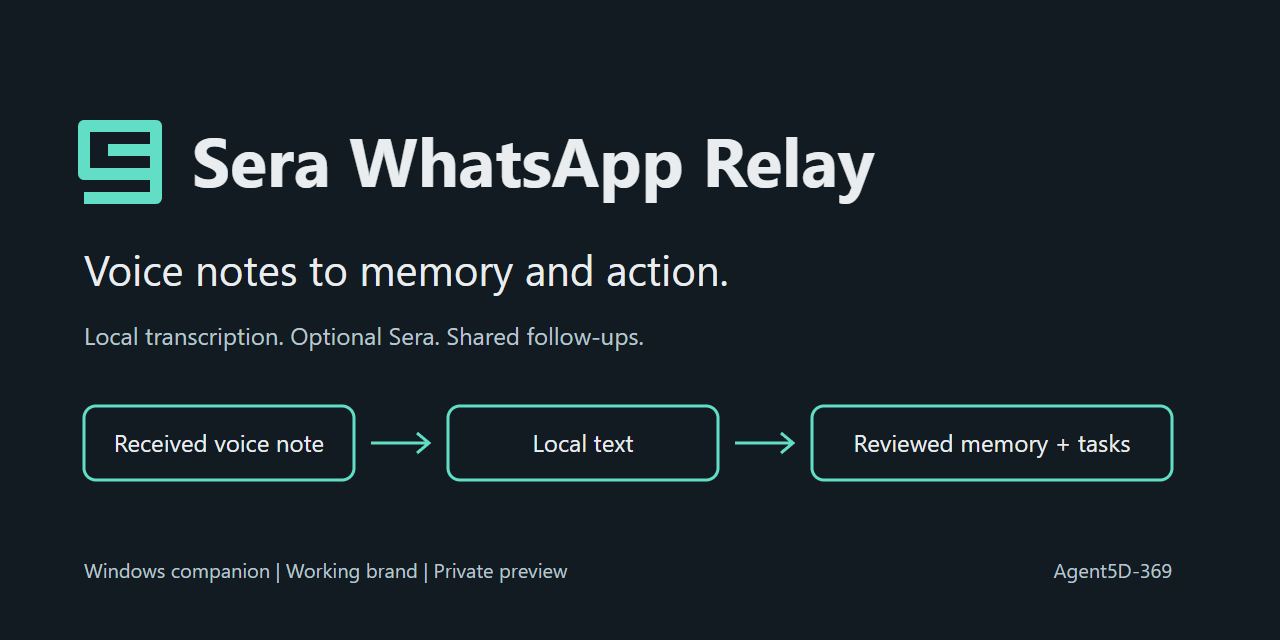
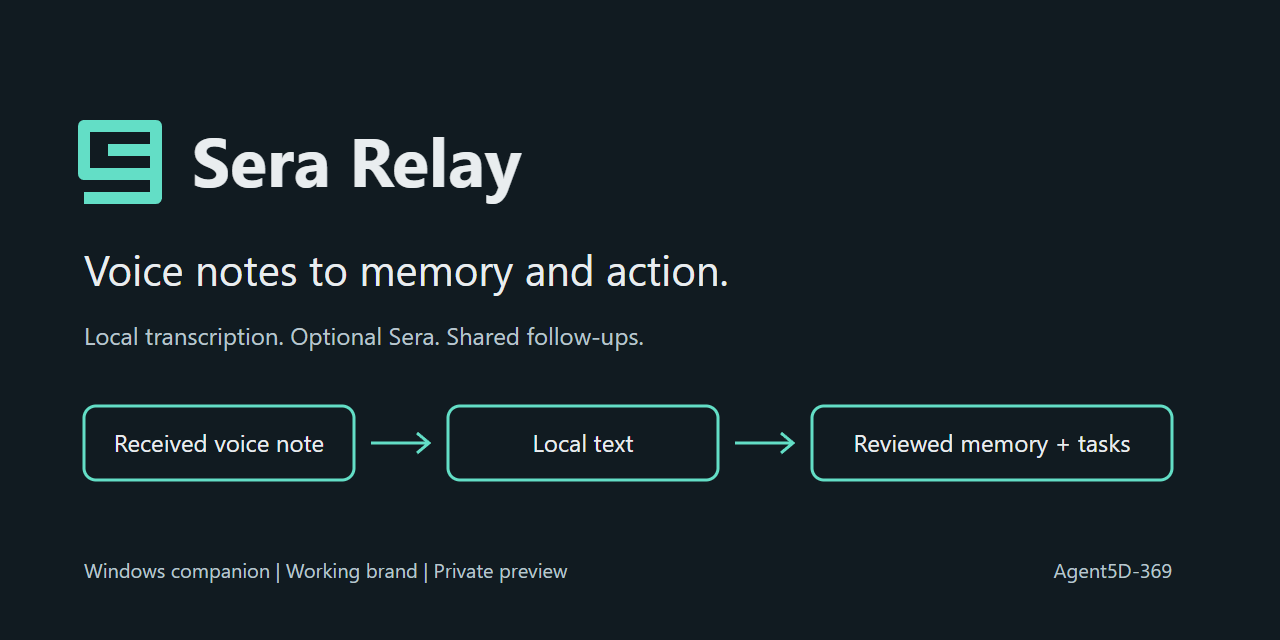
revert: keep the name Sera Relay
WhatsApp's brand rules do not allow its name in another app's name, and a
platform-neutral name leaves room for later connectors. Back to
2.3.0-beta.2, the published release.

This reverts commit 7e2caba75cbfd4c5a0d953fdfc9c273b14b3c3a4.

Changed region(s): [[0.25, 0.2188, 0.6875, 0.3125]]

diff --git a/collect_licenses.py b/collect_licenses.py
@@ -26,4 +26,4 @@ links={'NODE-LICENSE.txt':'https://raw.githubusercontent.com/nodejs/node/v24.13.
 for name,url in links.items():
  with urllib.request.urlopen(url,timeout=45) as response:(out/name).write_bytes(response.read())
 (out/'inventory.json').write_text(json.dumps(inventory,indent=2),encoding='utf-8')
-(out/'README.txt').write_text('Owned Sera WhatsApp Relay source: MIT. Third-party components retain their respective licenses. Whisper model weights and code: MIT (https://github.com/openai/whisper#license). Audio decoding uses libsndfile (LGPL-2.1-or-later; with Ogg, Vorbis, FLAC and Opus under BSD-style licenses, and mpg123 and LAME under LGPL-2.1), bundled unmodified as a separate shared library from the python-soundfile wheel; you may replace it. Sources: https://github.com/libsndfile/libsndfile and https://github.com/bastibe/libsndfile-binaries. FFmpeg is not included. Inventory lists build environment distributions; some listed build tools are not shipped. Full dependency notices accompany this distribution.',encoding='utf-8')
+(out/'README.txt').write_text('Owned Sera Relay source: MIT. Third-party components retain their respective licenses. Whisper model weights and code: MIT (https://github.com/openai/whisper#license). Audio decoding uses libsndfile (LGPL-2.1-or-later; with Ogg, Vorbis, FLAC and Opus under BSD-style licenses, and mpg123 and LAME under LGPL-2.1), bundled unmodified as a separate shared library from the python-soundfile wheel; you may replace it. Sources: https://github.com/libsndfile/libsndfile and https://github.com/bastibe/libsndfile-binaries. FFmpeg is not included. Inventory lists build environment distributions; some listed build tools are not shipped. Full dependency notices accompany this distribution.',encoding='utf-8')

diff --git a/app.py b/app.py
@@ -1,4 +1,4 @@
-"""Sera WhatsApp Relay: Ctrl+Alt+T to start, then stop and transcribe."""
+"""Sera Relay: Ctrl+Alt+T to start, then stop and transcribe."""
 import ctypes
 from ctypes import wintypes
 import logging
@@ -40,7 +40,7 @@ class App:
         self.started_at = 0
         self.hotkey = False
         self.hotkey_thread_id = None
-        root.title("Sera WhatsApp Relay")
+        root.title("Sera Relay")
         root.geometry("620x510")
         root.minsize(500, 400)
         root.configure(bg="#f4f7f5")
@@ -272,7 +272,7 @@ def main():
     if ctypes.get_last_error() == 183:
         user32.FindWindowW.argtypes = [wintypes.LPCWSTR, wintypes.LPCWSTR]
         user32.FindWindowW.restype = wintypes.HWND
-        hwnd = user32.FindWindowW(None, "Sera WhatsApp Relay")
+        hwnd = user32.FindWindowW(None, "Sera Relay")
         if hwnd:
             user32.ShowWindow.argtypes = [wintypes.HWND, ctypes.c_int]
             user32.SetForegroundWindow.argtypes = [wintypes.HWND]
@@ -287,7 +287,7 @@ def main():
         root.mainloop()
     except Exception:
         logging.exception("Application failed")
-        messagebox.showerror("Sera WhatsApp Relay", "The app could not start. Details are in app.log.")
+        messagebox.showerror("Sera Relay", "The app could not start. Details are in app.log.")
     finally:
         if application:
             application.closing.set()

diff --git a/platform_support.py b/platform_support.py
@@ -5,7 +5,7 @@ from pathlib import Path
 import subprocess
 import sys
 
-VERSION = '2.4.0-beta.1'
+VERSION = '2.3.0-beta.2'
 IS_WINDOWS = sys.platform == 'win32'
 IS_MAC = sys.platform == 'darwin'
 NO_WINDOW = getattr(subprocess, 'CREATE_NO_WINDOW', 0)
@@ -13,7 +13,7 @@ HOME = Path.home() / '.whatsapp-transcriber'
 UI_FONT = 'Segoe UI' if IS_WINDOWS else 'Helvetica Neue' if IS_MAC else 'TkDefaultFont'
 CREDENTIAL_NOTE = ('Stored encrypted for your Windows account.' if IS_WINDOWS else
                    'Stored in your macOS Keychain.' if IS_MAC else 'Stored for your account.')
-KEYCHAIN_SERVICE = 'Sera Relay'  # Unchanged by the rename: it holds existing users' Sera tokens.
+KEYCHAIN_SERVICE = 'Sera Relay'
 KEYCHAIN_ACCOUNT = 'sera-credential'
 KEYCHAIN_MARKER = b'macos-keychain:v1'
 
@@ -28,7 +28,7 @@ def app_base():
         return Path(__file__).resolve().parent
     executable = Path(sys.executable).resolve()
     if IS_MAC:
-        # Sera WhatsApp Relay.app/Contents/MacOS/SeraRelay -> Sera WhatsApp Relay.app/Contents/Resources
+        # Sera Relay.app/Contents/MacOS/SeraRelay -> Sera Relay.app/Contents/Resources
         return executable.parent.parent / 'Resources'
     return executable.parent
 

diff --git a/auto_app.py b/auto_app.py
@@ -31,7 +31,7 @@ from inbox_store import Inbox
 from sera_memory import SeraMemory
 
 BASE = app_base()
-TITLE = "Sera WhatsApp Relay"
+TITLE = "Sera Relay"
 
 
 class AutoApp:
@@ -55,7 +55,7 @@ class AutoApp:
         self.history_chats = {}
         root.title(TITLE)
         try:
-            # The Sera WhatsApp Relay icon in the title bar and taskbar, not Tk's default feather.
+            # The Sera Relay icon in the title bar and taskbar, not Tk's default feather.
             if IS_WINDOWS:
                 root.iconbitmap(str(BASE / 'assets' / 'sera-relay.ico'))
             else:

diff --git a/README.md b/README.md
@@ -1,4 +1,4 @@
-# Sera WhatsApp Relay
+# Sera Relay
 
 Read your WhatsApp voice notes as text, right inside WhatsApp, on your Windows PC or Mac. Speech is transcribed on your own computer. If your team uses Sera, you can turn a voice note or a set of written messages into a reviewed shared memory and follow-up tasks in one step.
 
@@ -16,14 +16,14 @@ Screenshots use fictional demo data.
 
 ## Install
 
-You need Google Chrome or Microsoft Edge installed, and about 2 GB of free space. The download is around 600 MB because the speech model is included, so nothing else needs to be installed. Sera WhatsApp Relay is free and open source. It is a beta and is not yet code-signed, so your computer asks you to confirm the first time. The steps below show exactly what to click.
+You need Google Chrome or Microsoft Edge installed, and about 2 GB of free space. The download is around 600 MB because the speech model is included, so nothing else needs to be installed. Sera Relay is free and open source. It is a beta and is not yet code-signed, so your computer asks you to confirm the first time. The steps below show exactly what to click.
 
 ### Windows 10 or 11 (64-bit)
 
 1. Download **[SeraRelay-Windows-Setup.exe](https://github.com/Agent5D-369/sera-relay/releases/latest/download/SeraRelay-Windows-Setup.exe)** and open it.
 2. If Windows shows "Windows protected your PC", select **More info**, then **Run anyway**.
 3. Choose where to install. The default is your user folder on drive C:. To use another drive, select **Browse** and pick a folder such as `D:\SeraRelay`. Setup shows the space it needs and checks that you can write there. Updates reuse the same folder without asking.
-4. Setup installs for your account only. No administrator password is needed. Sera WhatsApp Relay opens when it finishes, and it is in your Start menu and on your Desktop.
+4. Setup installs for your account only. No administrator password is needed. Sera Relay opens when it finishes, and it is in your Start menu and on your Desktop.
 
 Prefer one line? Open PowerShell and paste:
 
@@ -47,13 +47,13 @@ The easiest way is one line. Open **Terminal** (press Command + Space, type Term
 curl -fsSL https://raw.githubusercontent.com/Agent5D-369/sera-relay/main/install.sh | bash
 ```
 
-It downloads Sera WhatsApp Relay, checks the download, puts it in Applications, and opens it.
+It downloads Sera Relay, checks the download, puts it in Applications, and opens it.
 
 Or use the disk image:
 
-1. Download **[SeraRelay-macOS.dmg](https://github.com/Agent5D-369/sera-relay/releases/latest/download/SeraRelay-macOS.dmg)**, open it, and drag **Sera WhatsApp Relay** to **Applications**.
-2. Open Sera WhatsApp Relay. macOS says it cannot verify the developer. Select **Done**.
-3. Open **System Settings > Privacy & Security**, scroll down, and select **Open Anyway** next to Sera WhatsApp Relay, then confirm (with your Mac password if asked). After that it opens normally.
+1. Download **[SeraRelay-macOS.dmg](https://github.com/Agent5D-369/sera-relay/releases/latest/download/SeraRelay-macOS.dmg)**, open it, and drag **Sera Relay** to **Applications**.
+2. Open Sera Relay. macOS says it cannot verify the developer. Select **Done**.
+3. Open **System Settings > Privacy & Security**, scroll down, and select **Open Anyway** next to Sera Relay, then confirm (with your Mac password if asked). After that it opens normally.
 
 Intel Macs are not supported yet.
 
@@ -63,7 +63,7 @@ Run the installer again, or paste the same one line again. Your transcripts, Wha
 
 ## First use
 
-1. Open Sera WhatsApp Relay. WhatsApp opens in its own window.
+1. Open Sera Relay. WhatsApp opens in its own window.
 2. On your phone, open WhatsApp > **Settings > Linked devices > Link a device**, and scan the QR code. You do this once.
 3. Open any chat. Every voice note gets a panel underneath. New notes are transcribed as they arrive. For older notes, select **Transcribe**.
 
@@ -107,7 +107,7 @@ A forwarded message shows who forwarded it, because WhatsApp does not show the o
 
 Pick one chat where people forward anything worth keeping, such as a small group called "Sera inbox". Open it, then in **Voice notes + Sera** select **Use the open chat as Sera inbox** and confirm.
 
-New messages in that chat are counted in the panel. **Review new inbox messages** opens the chat with them already selected. **Mark as handled** clears messages you do not want to keep, without sending them. Sera WhatsApp Relay only reads this chat; it never posts or replies.
+New messages in that chat are counted in the panel. **Review new inbox messages** opens the chat with them already selected. **Mark as handled** clears messages you do not want to keep, without sending them. Sera Relay only reads this chat; it never posts or replies.
 
 Tell everyone in the inbox chat that what they post may be saved to Sera after review.
 
@@ -129,4 +129,4 @@ Tell everyone in the inbox chat that what they post may be saved to Sera after r
 
 ## Independence
 
-Sera WhatsApp Relay is an unofficial companion. It is not affiliated with or endorsed by WhatsApp or Meta. It uses [whatsapp-web.js](https://github.com/wwebjs/whatsapp-web.js), and WhatsApp changes can affect compatibility. It does not send messages for you.
+Sera Relay is an unofficial companion. It is not affiliated with or endorsed by WhatsApp or Meta. It uses [whatsapp-web.js](https://github.com/wwebjs/whatsapp-web.js), and WhatsApp changes can affect compatibility. It does not send messages for you.

diff --git a/docs/RELEASE-NOTES.md b/docs/RELEASE-NOTES.md
@@ -1,4 +1,4 @@
-# Sera WhatsApp Relay 2.4.0-beta.1 for Windows and Mac
+# Sera Relay 2.3.0-beta.2 for Windows and Mac
 
 Read WhatsApp voice notes as text inside WhatsApp, transcribed on your own computer. Optionally publish a reviewed voice note, or a set of written messages, to your Sera workspace with its follow-up tasks in one step.
 
@@ -11,17 +11,16 @@ Chrome or Edge is required. Nothing else: FFmpeg is no longer needed. Updating k
 
 ## New in this release
 
-- **New name: Sera WhatsApp Relay.** Formerly Sera Relay. Updating keeps your transcripts, WhatsApp link and Sera connection. The old Start menu and Desktop shortcuts are replaced, and the one-line Mac installer replaces the old app. If you installed on a Mac from the DMG, drag the old **Sera Relay** app to the Trash after installing.
 - **Send written messages to Sera.** Under an open chat, select **Select messages for Sera**, click the messages you want (Shift-click picks a range), then **Review with Sera**. They go through the same review as a voice note and are saved as copied text with each sender and time. Photo, video and file captions count as text.
 - **Labels on sent messages.** Messages already sent to Sera show a small label that reopens their review.
-- **Sera inbox chat.** Choose one chat that people forward messages into. New messages there are counted in the panel, and one click opens the chat with them selected. **Mark as handled** clears messages without sending them. Sera WhatsApp Relay only reads that chat and never posts.
+- **Sera inbox chat.** Choose one chat that people forward messages into. New messages there are counted in the panel, and one click opens the chat with them selected. **Mark as handled** clears messages without sending them. Sera Relay only reads that chat and never posts.
 - The **Select messages for Sera** button sits between the contact's name and WhatsApp's icons and never covers the photo or name. In a narrow window it shortens to **Sera**.
 - No more warning bars at the top of the WhatsApp window: Chrome's "controlled by automated test software" and "unsupported command-line flag" notices are both gone.
 - A forwarded message shows who forwarded it, because WhatsApp does not show the original author.
 - **Choose the install drive on Windows.** First install asks for a folder, so the app can go on another drive. The one-line installer accepts `$env:SERA_RELAY_DIR = 'D:\SeraRelay'`. Updates reuse the chosen folder.
 - Publishing written messages needs a current Sera workspace. Older Sera servers are refused before anything is sent.
 
-Everything from 2.3 and 2.2 is included: Mac support, the one-file Windows installer, no FFmpeg, note colors, Mark reviewed, the voice-note rail, and one-step publish with tasks.
+Everything from 2.2 is included: Mac support, the one-file Windows installer, no FFmpeg, note colors, Mark reviewed, the voice-note rail, and one-step publish with tasks.
 
 ## Checks
 

diff --git a/DEPLOYMENT.md b/DEPLOYMENT.md
@@ -1,4 +1,4 @@
-# Sera WhatsApp Relay deployment and source builds
+# Sera Relay deployment and source builds
 
 ## Installing a release
 
@@ -21,7 +21,7 @@ Node.js, the Whisper `small` model, and the audio decoder (libsndfile with Ogg O
 
 All user data lives in `.whatsapp-transcriber` in your home folder (`%USERPROFILE%` on Windows, `~` on macOS): the WhatsApp link in `auth`, transcripts and queue state in `inbox.sqlite3`, and audio waiting for transcription in `spool`. Installing, updating, and uninstalling never touch this folder. Delete it only when you intend to erase local history and sign-in state.
 
-The Sera token is protected by the operating system: Windows DPAPI for your account (`sera-credential.dpapi`), or the macOS Keychain (service "Sera WhatsApp Relay"; the file then only marks that a credential exists).
+The Sera token is protected by the operating system: Windows DPAPI for your account (`sera-credential.dpapi`), or the macOS Keychain (service "Sera Relay"; the file then only marks that a credential exists).
 
 ## Sera workspace
 
@@ -61,7 +61,7 @@ cd receiver && node --test *.test.cjs && cd ..
 Build:
 
 - Windows: `.\Build-Release.ps1` builds `dist\SeraRelay`, the portable ZIP, and, with [Inno Setup 6](https://jrsoftware.org/isinfo.php) installed, `SeraRelay-Windows-Setup.exe`. Pass `-SkipInstaller` to skip the installer.
-- macOS: `PYTHON=.venv/bin/python bash build-macos.sh` builds `dist/Sera WhatsApp Relay.app`, the DMG, and the ZIP. The app is sealed with an ad hoc signature.
+- macOS: `PYTHON=.venv/bin/python bash build-macos.sh` builds `dist/Sera Relay.app`, the DMG, and the ZIP. The app is sealed with an ad hoc signature.
 
 ## Releasing
 

diff --git a/START-HERE.md b/START-HERE.md
@@ -1,7 +1,7 @@
-# Start with Sera WhatsApp Relay
+# Start with Sera Relay
 
-1. Install Sera WhatsApp Relay. Windows: run `SeraRelay-Windows-Setup.exe`. Mac (Apple Silicon): paste `curl -fsSL https://raw.githubusercontent.com/Agent5D-369/sera-relay/main/install.sh | bash` into Terminal. The [README](README.md#install) shows each click, including the one-time security confirmation for this unsigned beta.
-2. Open Sera WhatsApp Relay and link WhatsApp: on your phone, WhatsApp > Settings > Linked devices > Link a device, then scan the QR code.
+1. Install Sera Relay. Windows: run `SeraRelay-Windows-Setup.exe`. Mac (Apple Silicon): paste `curl -fsSL https://raw.githubusercontent.com/Agent5D-369/sera-relay/main/install.sh | bash` into Terminal. The [README](README.md#install) shows each click, including the one-time security confirmation for this unsigned beta.
+2. Open Sera Relay and link WhatsApp: on your phone, WhatsApp > Settings > Linked devices > Link a device, then scan the QR code.
 3. Open a chat. Each voice note gets a panel with its transcript. Select **Transcribe** on older notes.
 4. Optional: to use Sera, select **Connect Sera** under a transcript and enter your workspace's MCP URL and a token with document-write access. Then select **Review and publish** on a note.
 

diff --git a/SUPPORT.md b/SUPPORT.md
@@ -1,6 +1,6 @@
 # Support
 
-For setup questions, first check the installation and first-use steps in [README.md](README.md), then search existing GitHub issues. If you cannot resolve the problem, open an issue with the steps you took, what you expected, what happened, and the Sera WhatsApp Relay version and your Windows or macOS version.
+For setup questions, first check the installation and first-use steps in [README.md](README.md), then search existing GitHub issues. If you cannot resolve the problem, open an issue with the steps you took, what you expected, what happened, and the Sera Relay version and your Windows or macOS version.
 
 Use the bug report template for reproducible problems and the feature request template for ideas. Do not include private WhatsApp content, transcripts, QR codes, session files, Sera tokens, or workspace credentials. Replace message text and names with synthetic examples.
 

diff --git a/CONTRIBUTING.md b/CONTRIBUTING.md
@@ -1,6 +1,6 @@
 # Contributing
 
-Thanks for helping improve Sera WhatsApp Relay. Open an issue to discuss a substantial change before starting work. For small fixes, open a pull request with a clear explanation and steps to reproduce or review them.
+Thanks for helping improve Sera Relay. Open an issue to discuss a substantial change before starting work. For small fixes, open a pull request with a clear explanation and steps to reproduce or review them.
 
 Keep changes focused and describe their user-visible effect. Do not include personal WhatsApp data, transcripts, session files, tokens, or screenshots containing private information. Use synthetic examples in logs and screenshots, and remove credentials and message content from diagnostic details. Update user documentation when behavior or setup changes.
 

diff --git a/SECURITY.md b/SECURITY.md
@@ -6,4 +6,4 @@ Use GitHub's private vulnerability reporting for this repository when available.
 
 Do not send real voice notes, transcripts, WhatsApp session files, Sera URLs, or credentials in a report. Redact identifying details and use synthetic data where possible.
 
-Sera WhatsApp Relay is beta software distributed as an unsigned Windows package. Install only releases from the project's GitHub Releases page and review the source and release notes before use.
+Sera Relay is beta software distributed as an unsigned Windows package. Install only releases from the project's GitHub Releases page and review the source and release notes before use.

diff --git a/CHANGELOG.md b/CHANGELOG.md
@@ -1,9 +1,5 @@
 # Changelog
 
-## 2.4.0-beta.1
-
-- Renamed to Sera WhatsApp Relay: window title, installer, Start menu and Desktop shortcuts, the Mac app, and the docs. Transcripts, the WhatsApp link and the Sera connection carry over. Download file names and the install folder stay the same so existing installers keep working. Upgrading removes the old Sera Relay shortcuts, and the one-line Mac installer replaces the old Sera Relay app.
-
 ## 2.3.0-beta.2
 
 - Windows setup asks where to install on first install, so the app (about 2 GB) can go on another drive. The one-line installer takes `$env:SERA_RELAY_DIR`. Updates reuse the chosen folder.
